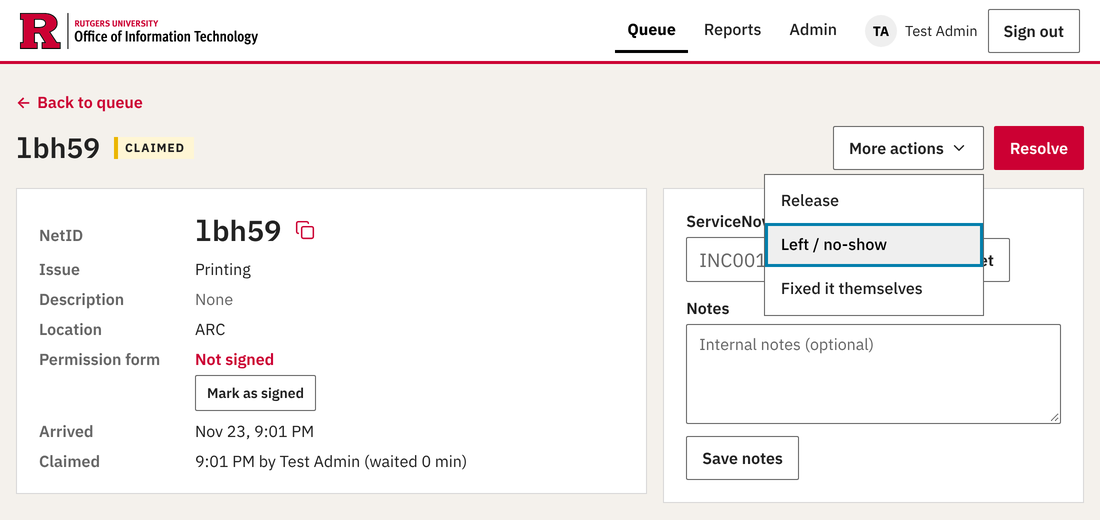
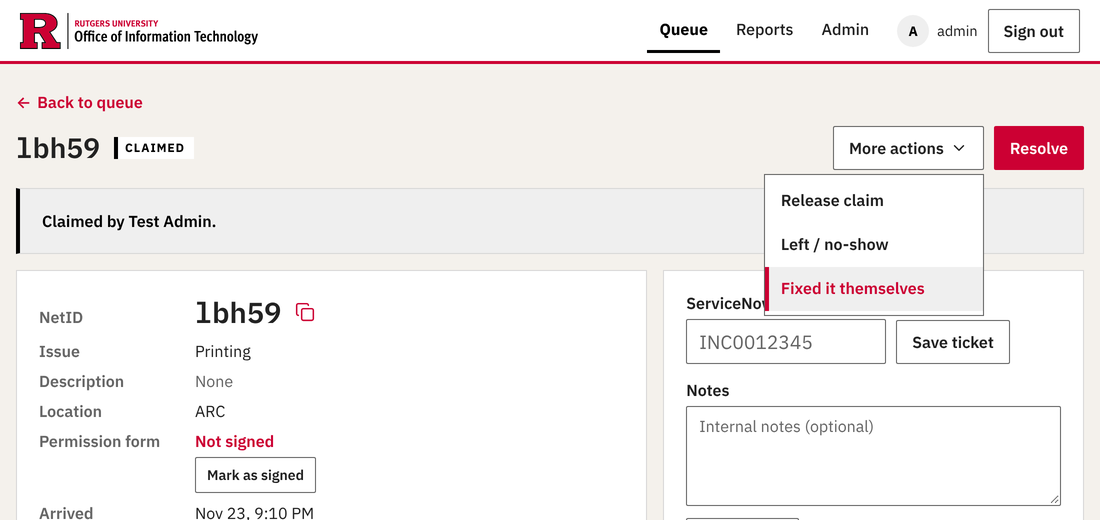
Keep status tags and the menu highlight in the Rutgers palette
Claimed is now black on white instead of yellow, and the 'Claimed by' notice
drops the yellow too. Menu items highlight with Rutgers Red text and a red
bar; hovering an item focuses it so only one is highlighted at a time.

Claude-Session: https://claude.ai/code/session_01FghGW5EiMqYNT3hf2AaiiF

diff --git a/public/app.css b/public/app.css
@@ -109,14 +109,14 @@ th { font-size: .75rem; text-transform: uppercase; letter-spacing: .06em; color:
 tbody tr:hover { background: var(--light-gray); }
 
 /* Status tags: always a word, the color is only a second cue (WCAG 1.4.1). Flat label with a
-   solid bar on the left in the status color, no box outline. Every text color is 4.5:1 or better on its tint. */
+   solid bar on the left, using only the identity palette (red, black, grays, teal). Every text color is 4.5:1 or better on its background. */
 .chip { display: inline-flex; align-items: center; padding: 3px 9px 3px 7px; border-left: 4px solid var(--chip-bar);
   background: var(--chip-bg); color: var(--chip-ink); font-size: .75rem; font-weight: 700; line-height: 1.3;
   text-transform: uppercase; letter-spacing: .08em; white-space: nowrap; vertical-align: middle; }
-.chip.waiting  { --chip-bar: var(--rutgers-red); --chip-bg: var(--white);       --chip-ink: var(--rutgers-red); }
-.chip.claimed  { --chip-bar: var(--yellow);      --chip-bg: var(--light-yellow); --chip-ink: var(--dark-gray); }
-.chip.resolved { --chip-bar: var(--teal);        --chip-bg: var(--light-teal);   --chip-ink: var(--teal); }
-.chip.left     { --chip-bar: var(--mid-gray);    --chip-bg: var(--light-gray);   --chip-ink: var(--dark-gray); }
+.chip.waiting  { --chip-bar: var(--rutgers-red); --chip-bg: var(--white);      --chip-ink: var(--rutgers-red); }
+.chip.claimed  { --chip-bar: var(--black);       --chip-bg: var(--white);      --chip-ink: var(--black); }
+.chip.resolved { --chip-bar: var(--teal);        --chip-bg: var(--white);      --chip-ink: var(--teal); }
+.chip.left     { --chip-bar: var(--mid-gray);    --chip-bg: var(--light-gray); --chip-ink: var(--dark-gray); }
 
 /* Icon-only button (e.g. Copy): red line icon, the accessible name is on aria-label.
    36px square with a 44px tap area; icon is 5.8:1 on white (non-text contrast needs 3:1). */
@@ -131,9 +131,9 @@ button.icon-btn:hover { background: var(--light-gray); border-color: var(--line)
 .menu { position: absolute; right: 0; top: calc(100% + 4px); z-index: 10; min-width: 220px; margin: 0; padding: 4px 0; list-style: none;
   background: var(--white); border: 1px solid var(--field); }
 .menu[hidden] { display: none; }
-.menu [role="menuitem"] { display: block; width: 100%; padding: 11px 16px; min-height: 44px; font-weight: 500; cursor: pointer; color: var(--ink); }
-.menu [role="menuitem"]:hover, .menu [role="menuitem"]:focus { background: var(--light-gray); color: var(--black); outline: none; }
-.menu [role="menuitem"]:focus-visible { outline: 3px solid var(--focus); outline-offset: -3px; }
+.menu [role="menuitem"] { display: block; font-weight: 600; width: 100%; padding: 11px 16px; min-height: 44px; cursor: pointer; color: var(--ink); }
+/* Highlighted item: Rutgers Red text with a red bar on the left (5.05:1 on light gray), so focus is visible without the blue ring. */
+.menu [role="menuitem"]:hover, .menu [role="menuitem"]:focus { background: var(--light-gray); color: var(--scarlet); box-shadow: inset 4px 0 0 var(--scarlet); outline: none; }
 .late { color: var(--scarlet); font-weight: 700; }
 code { font-family: var(--mono); background: var(--light-gray); padding: 2px 7px; font-size: .9em; }
 

diff --git a/public/walkin.html b/public/walkin.html
@@ -18,7 +18,7 @@
   .netid { font-family: var(--mono); font-size: 1.8rem; font-weight: 600; }
   .back { display: inline-flex; align-items: center; gap: 6px; text-decoration: none; font-weight: 600; margin-bottom: 14px; }
   .sn { display: inline-block; margin-top: 10px; font-weight: 600; }
-  .notice { background: var(--warn-tint); color: var(--warn); font-weight: 600; border-left: 4px solid var(--yellow); }
+  .notice { background: var(--light-gray); color: var(--black); font-weight: 600; border-left: 4px solid var(--black); }
   .ticket input { font-size: 1.2rem; width: 200px; text-transform: uppercase; }
   .form-ok { color: var(--ink); font-weight: 600; }
   .form-no { color: var(--scarlet); font-weight: 600; }
@@ -96,6 +96,7 @@ function menuButton(label, items) {
   });
   entries.forEach((li, i) => {
     li.addEventListener('click', () => choose(i));
+    li.addEventListener('mouseenter', () => li.focus());  // one highlighted item at a time, mouse or keyboard
     li.addEventListener('keydown', (e) => {
       const k = e.key;
       if (k === 'ArrowDown') { e.preventDefault(); focusItem(i + 1); }
